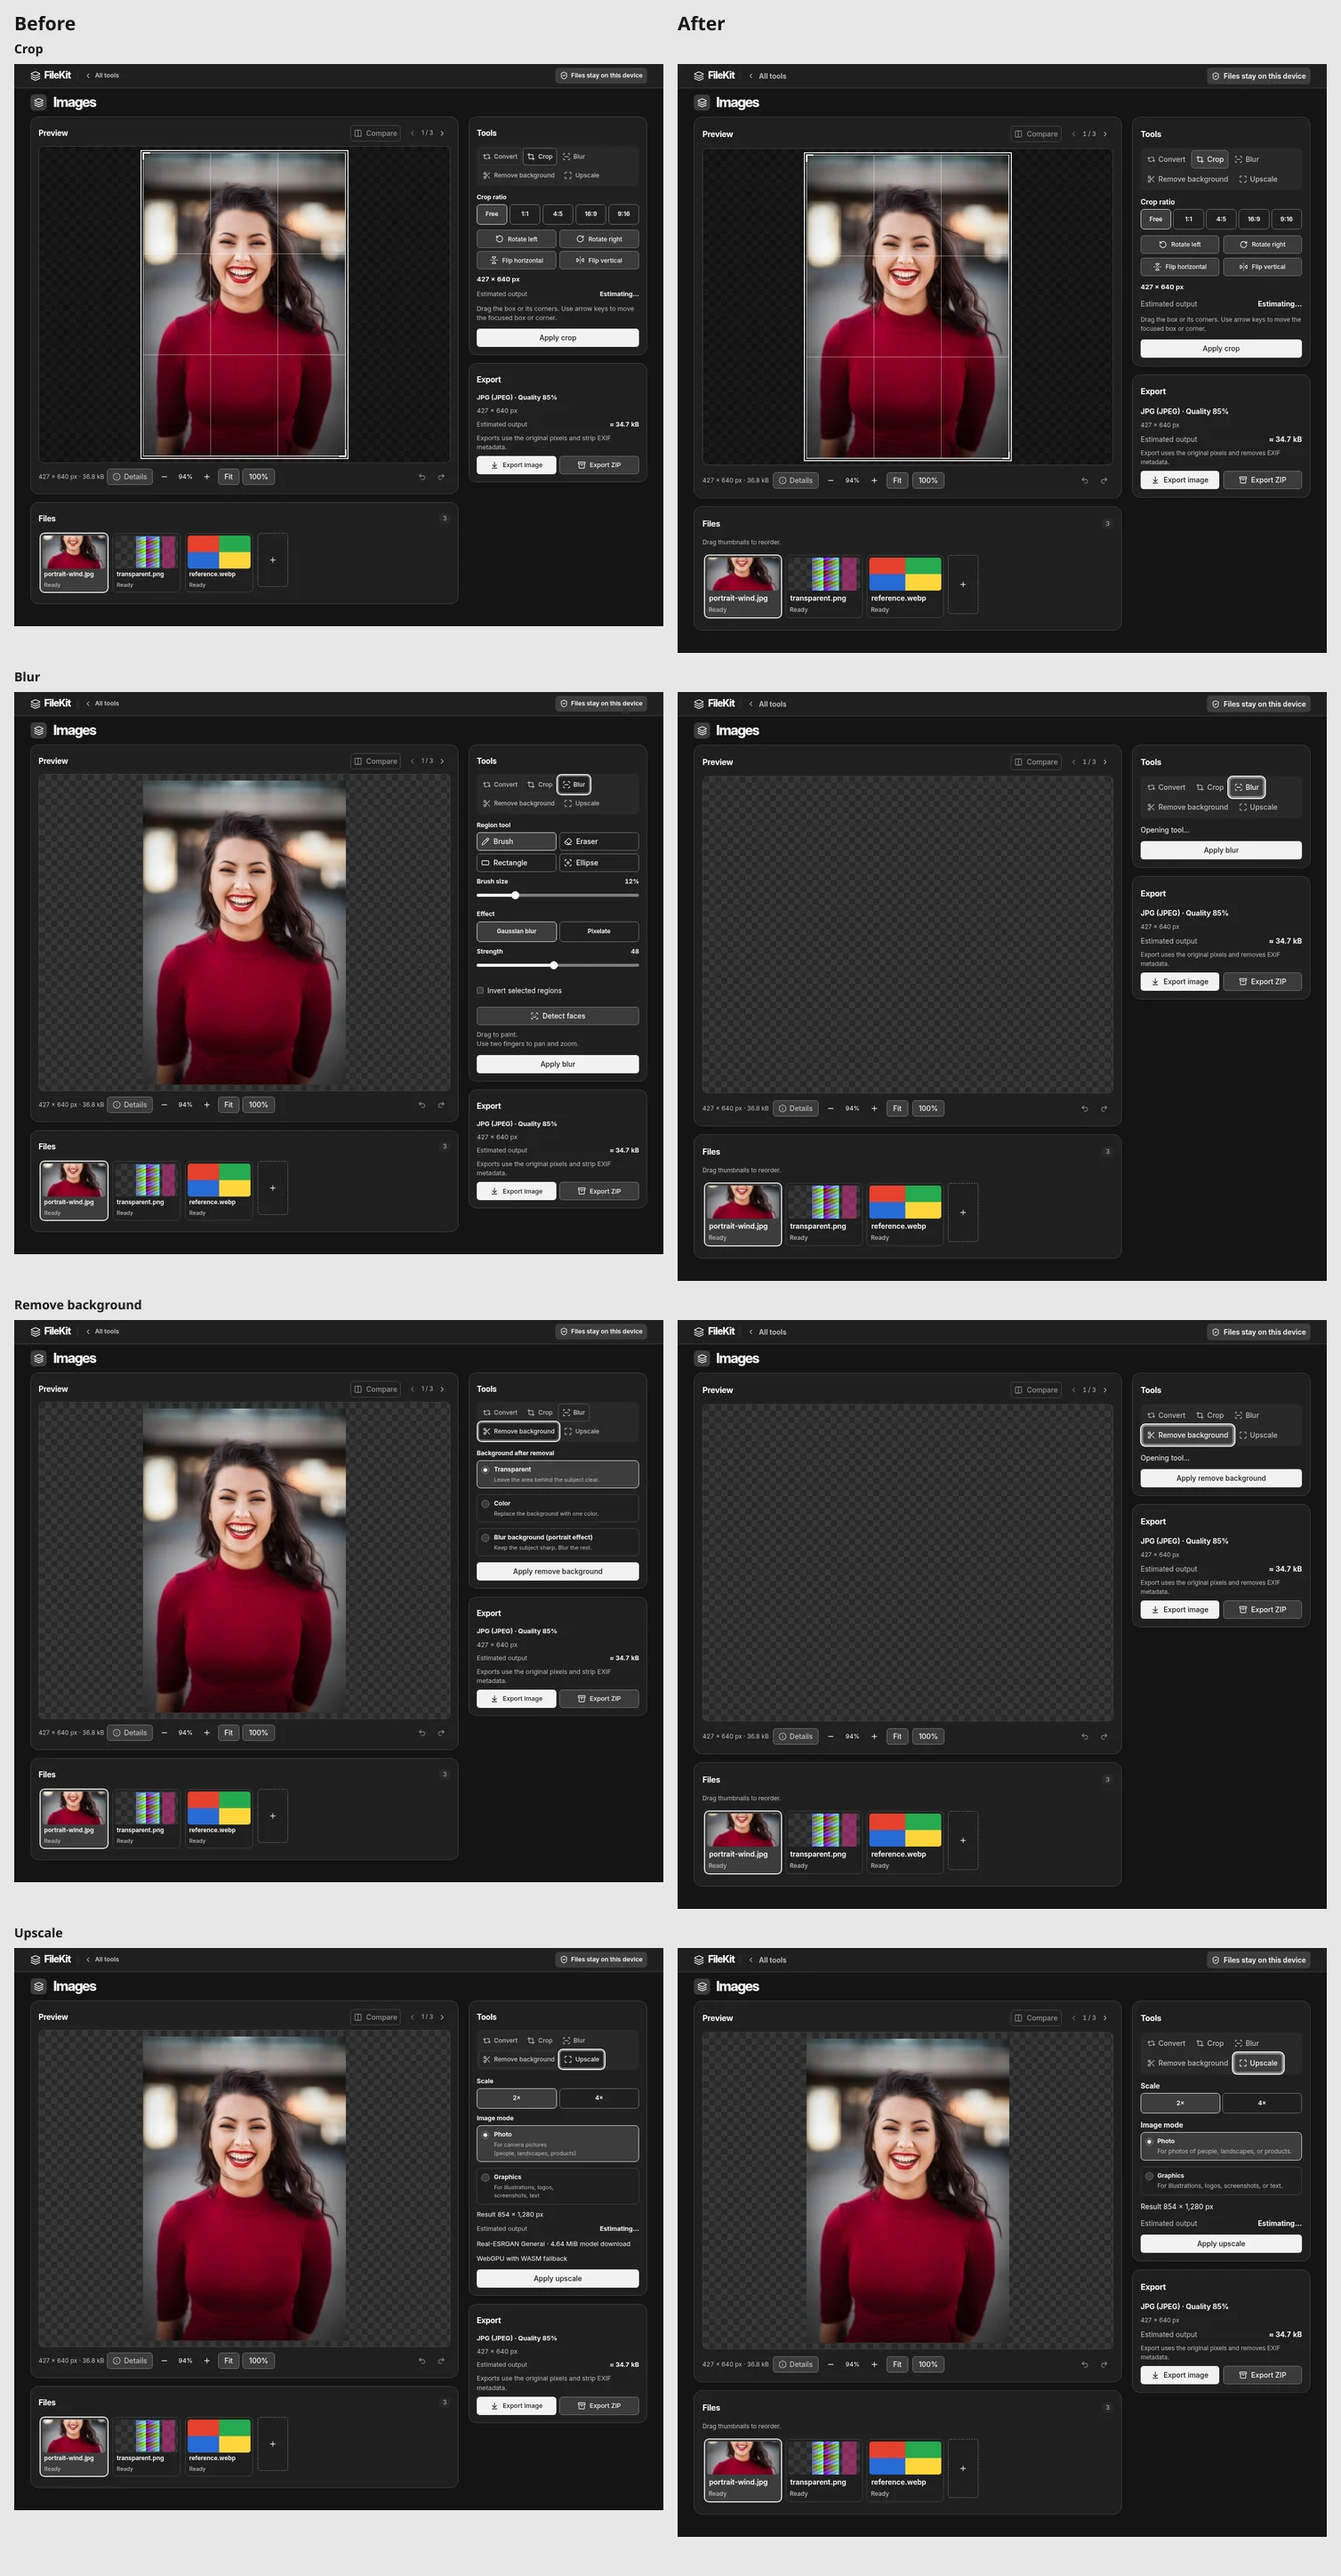
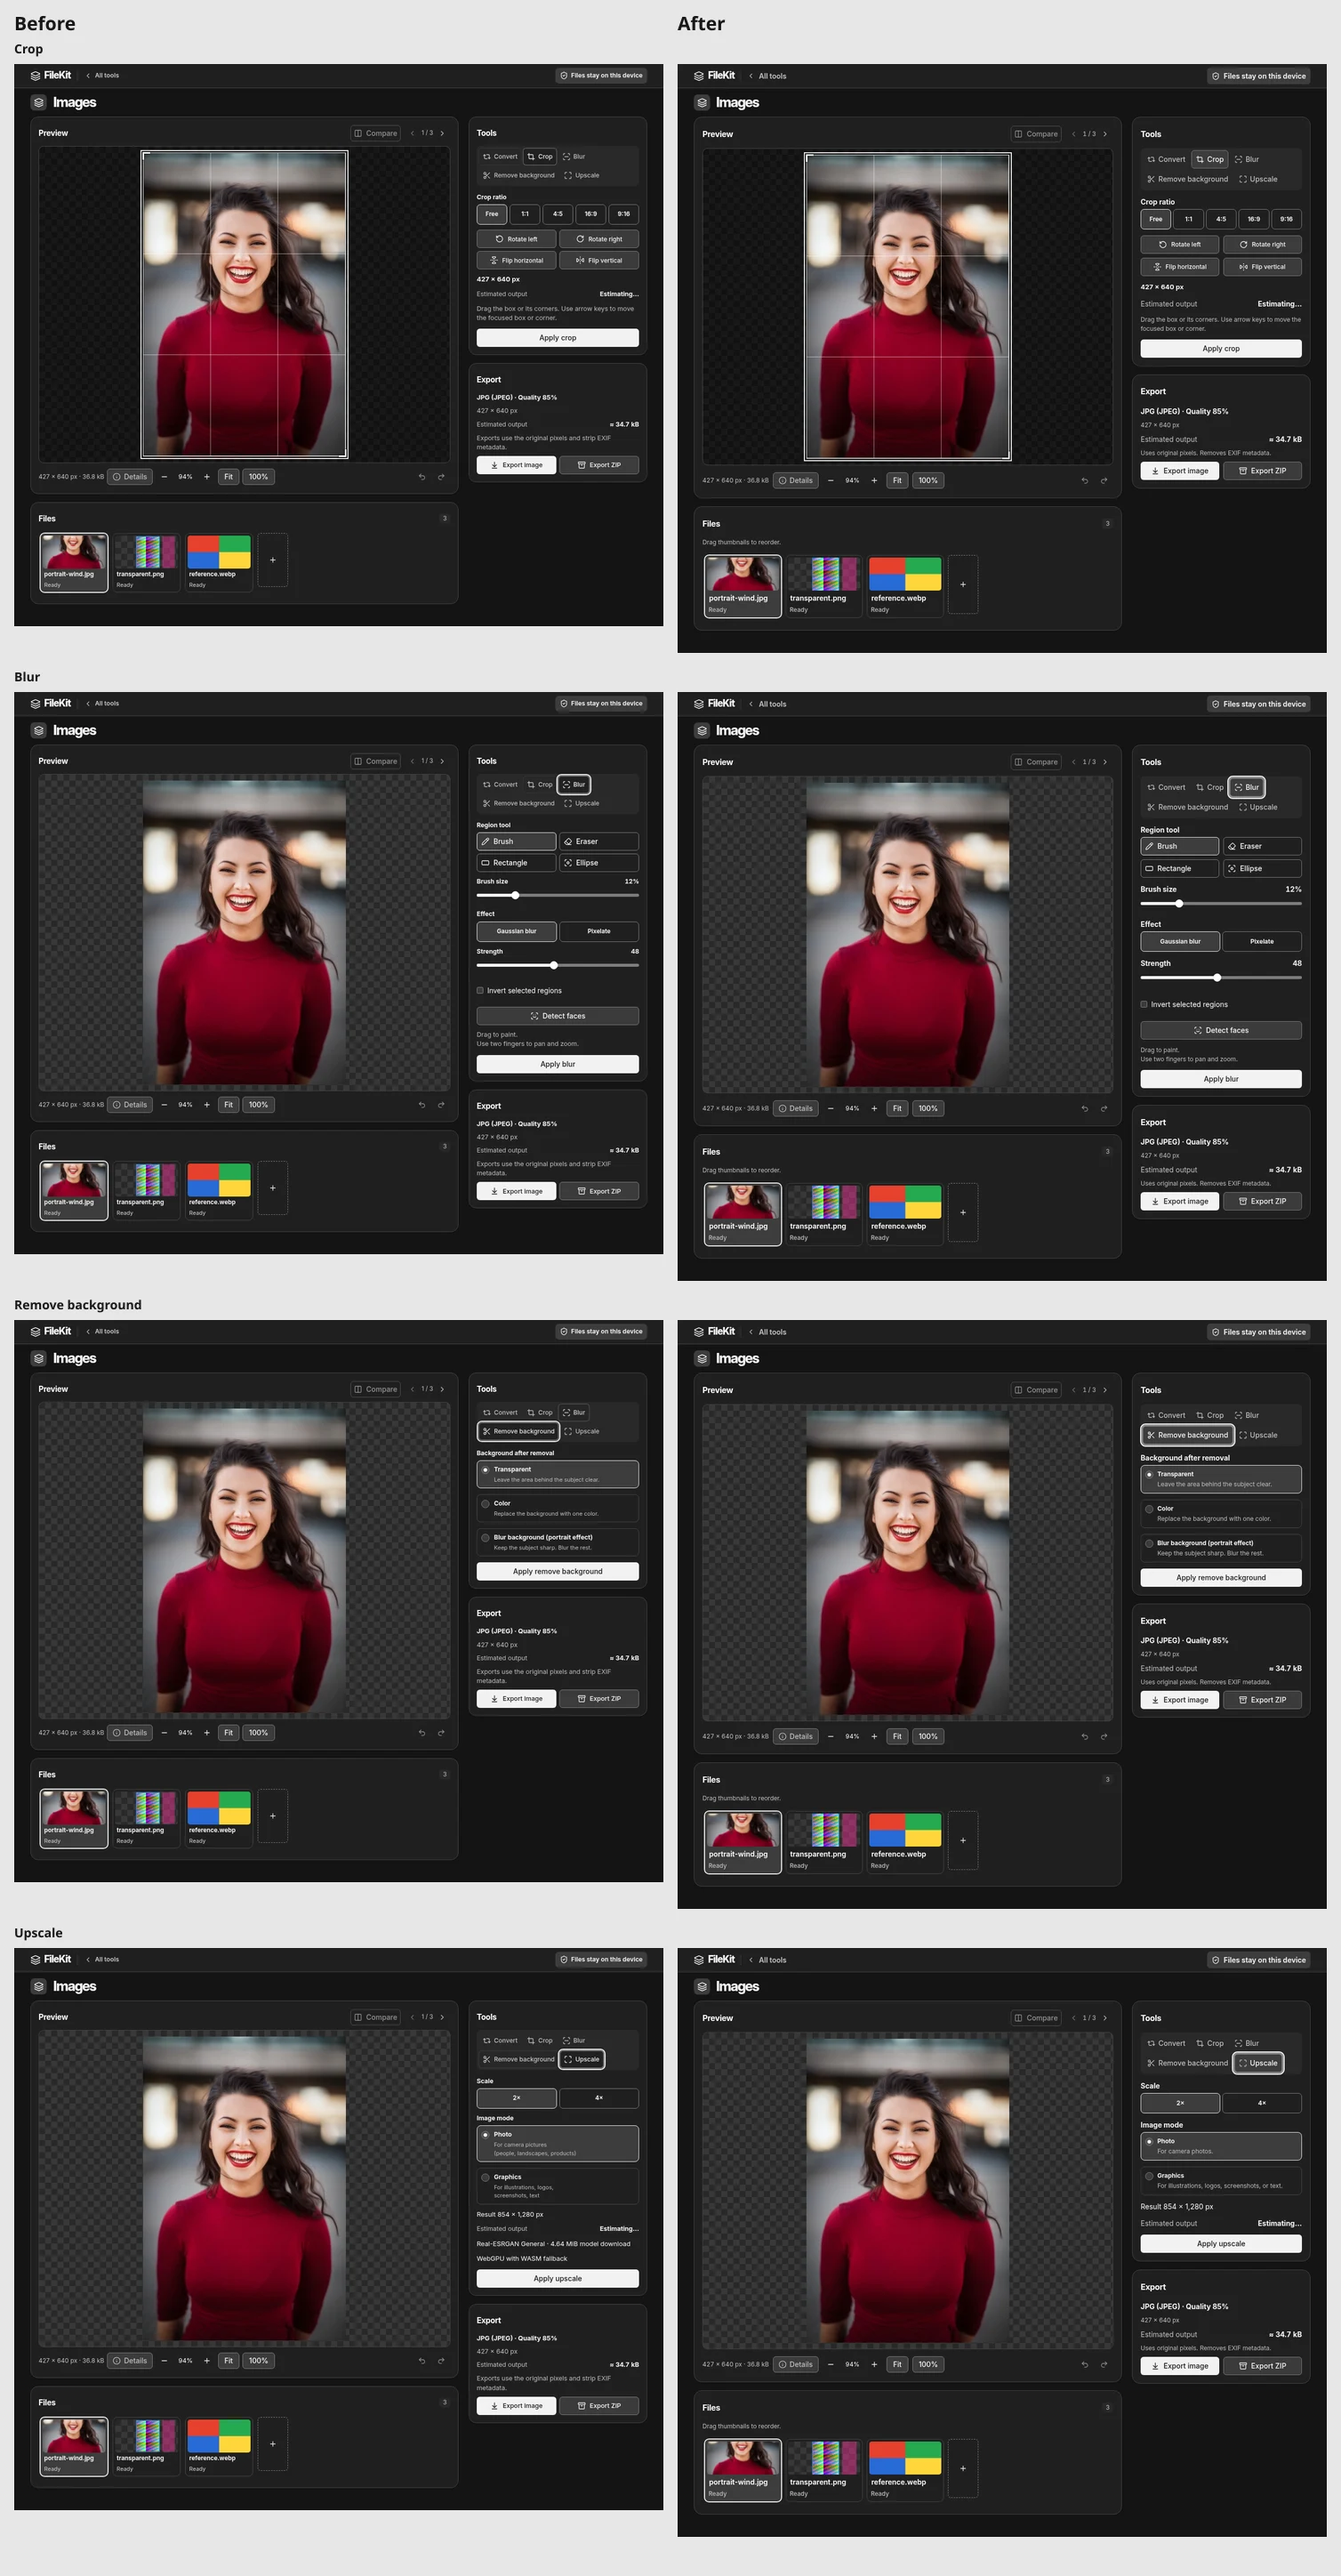
Stabilize helper text and refresh visual baselines

diff --git a/test/e2e/workspace.spec.ts b/test/e2e/workspace.spec.ts
@@ -59,7 +59,7 @@ for (const [label, format, extension] of [
     await pick(page, 'transparent.png');
     await waitForImage(page, 'transparent.png');
     await expect(toolTab(page, 'Convert')).toHaveAttribute('aria-selected', 'true');
-    await expect(page.getByText('Export uses the original pixels and removes EXIF metadata.')).toBeVisible();
+    await expect(page.getByText('Uses original pixels. Removes EXIF metadata.')).toBeVisible();
     await expect(outputFormat(page)).toHaveValue('original');
     await expect(page.getByText('Original format: PNG')).toBeVisible();
     await expect(page.getByRole('slider', { name: 'Quality' })).toHaveCount(0);

diff --git a/lib/tools/image/upscale-panel.tsx b/lib/tools/image/upscale-panel.tsx
@@ -27,7 +27,7 @@ export default function UpscaleOptionsPanel({ value: options, context, onChange 
         <RadioGroup aria-label="Image mode" value={options.mode} disabled={context.disabled}
           onValueChange={mode => onChange({ ...options, mode: mode === 'photo' ? 'photo' : 'art' })}>
           {([
-            ['photo', 'Photo', 'For photos of people, landscapes, or products.'],
+            ['photo', 'Photo', 'For camera photos.'],
             ['art', 'Graphics', 'For illustrations, logos, screenshots, or text.'],
           ] as const).map(([mode, label, description]) => (
             <label className="background-choice" key={mode}>

diff --git a/components/workspace/image-workspace.tsx b/components/workspace/image-workspace.tsx
@@ -675,7 +675,7 @@ export function ImageWorkspace() {
                   {warnings.map(warning => <p key={warning}>{warning}</p>)}
                 </Notice>
               )}
-              <p className="section-note">Export uses the original pixels and removes EXIF metadata.</p>
+              <p className="section-note">Uses original pixels. Removes EXIF metadata.</p>
               <div className="export-buttons">
                 <Button disabled={selected?.status !== 'ready' || !previewIsCurrent || jobsLocked}
                   onClick={() => selected && startExport('image', [selected])}>
